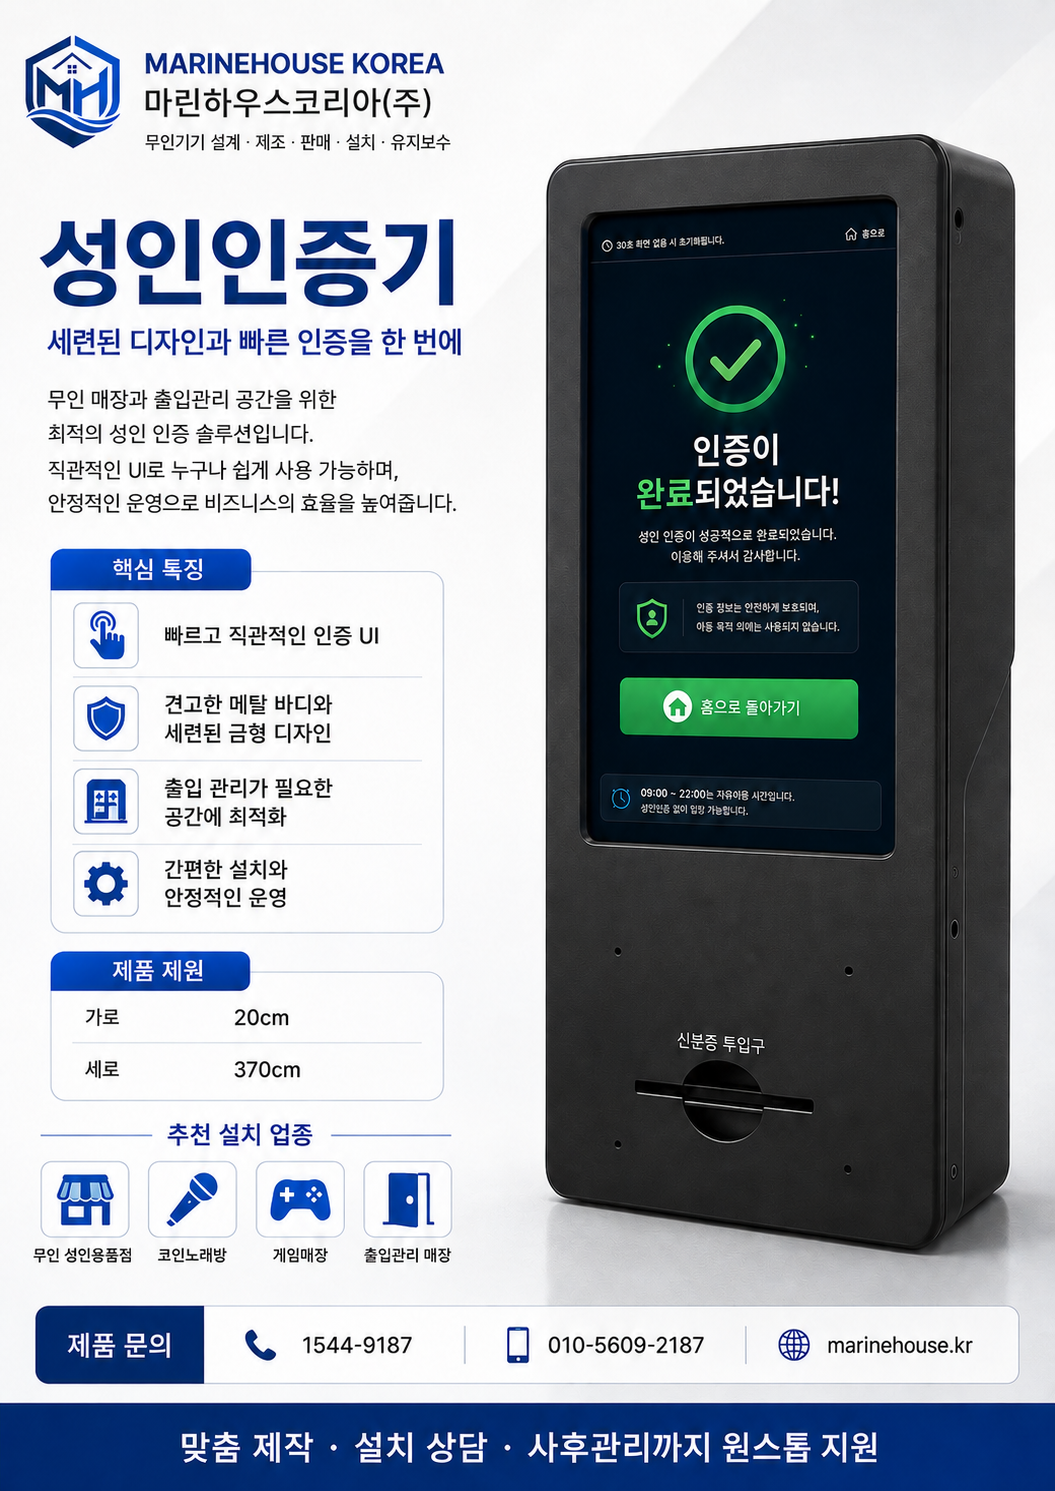
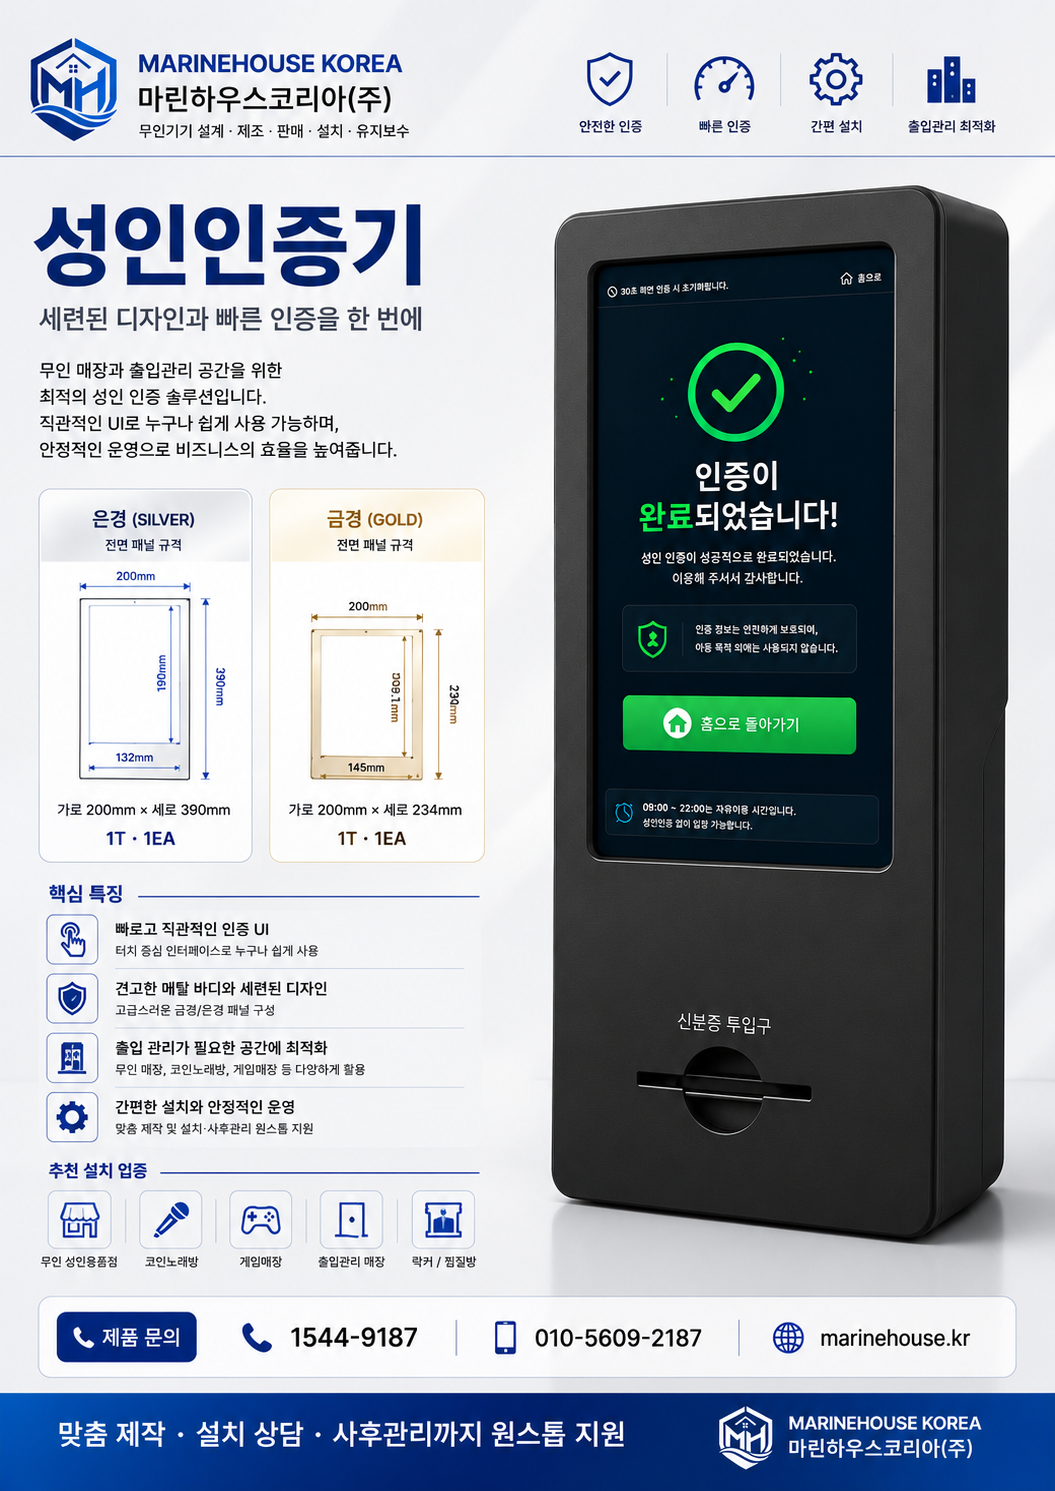
Add files via upload

Changed region(s): [[0.0, 0.0309, 1.0, 1.0], [0.6066, 0.6787, 0.7886, 0.7713], [0.8796, 0.617, 0.91, 0.6479]]

diff --git a/index.html b/index.html
@@ -207,7 +207,7 @@
     <button class="launch-popup-close" type="button" aria-label="성인인증기 출시 안내 닫기" data-popup-close>×</button>
     <h2 class="sr-only" id="adultLaunchTitle">마린하우스코리아 성인인증기 출시 안내</h2>
     <a class="launch-popup-image" href="products.html#adult-verification" aria-label="성인인증기 제품소개로 이동">
-      <img src="assets/images/adult-verification-launch.png" alt="마린하우스코리아 성인인증기 안내: 빠른 인증 UI, 견고한 메탈 바디, 설치 및 유지관리 지원" width="1055" height="1491">
+      <img src="assets/images/adult-verification-launch.png" alt="마린하우스코리아 성인인증기 안내: 은경과 금경 전면 패널 규격, 핵심 특징, 설치 업종, 문의 정보" width="1055" height="1491">
     </a>
     <div class="launch-popup-actions">
       <button type="button" class="launch-popup-day" id="adultLaunchHideToday">오늘 하루 보지 않기</button>